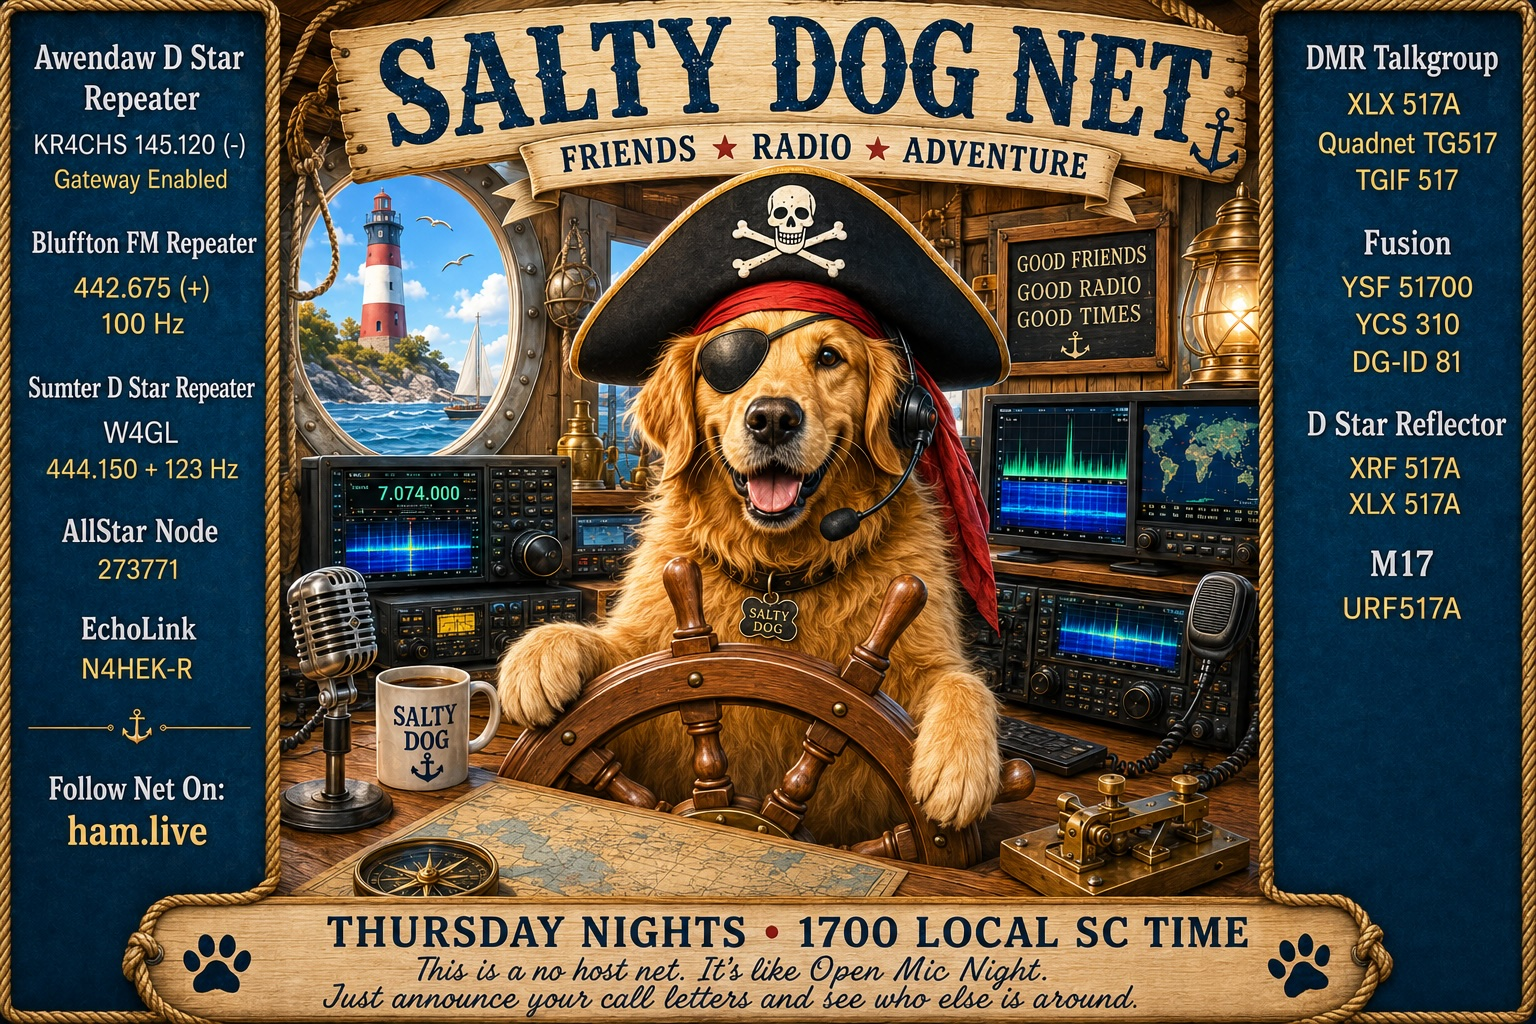
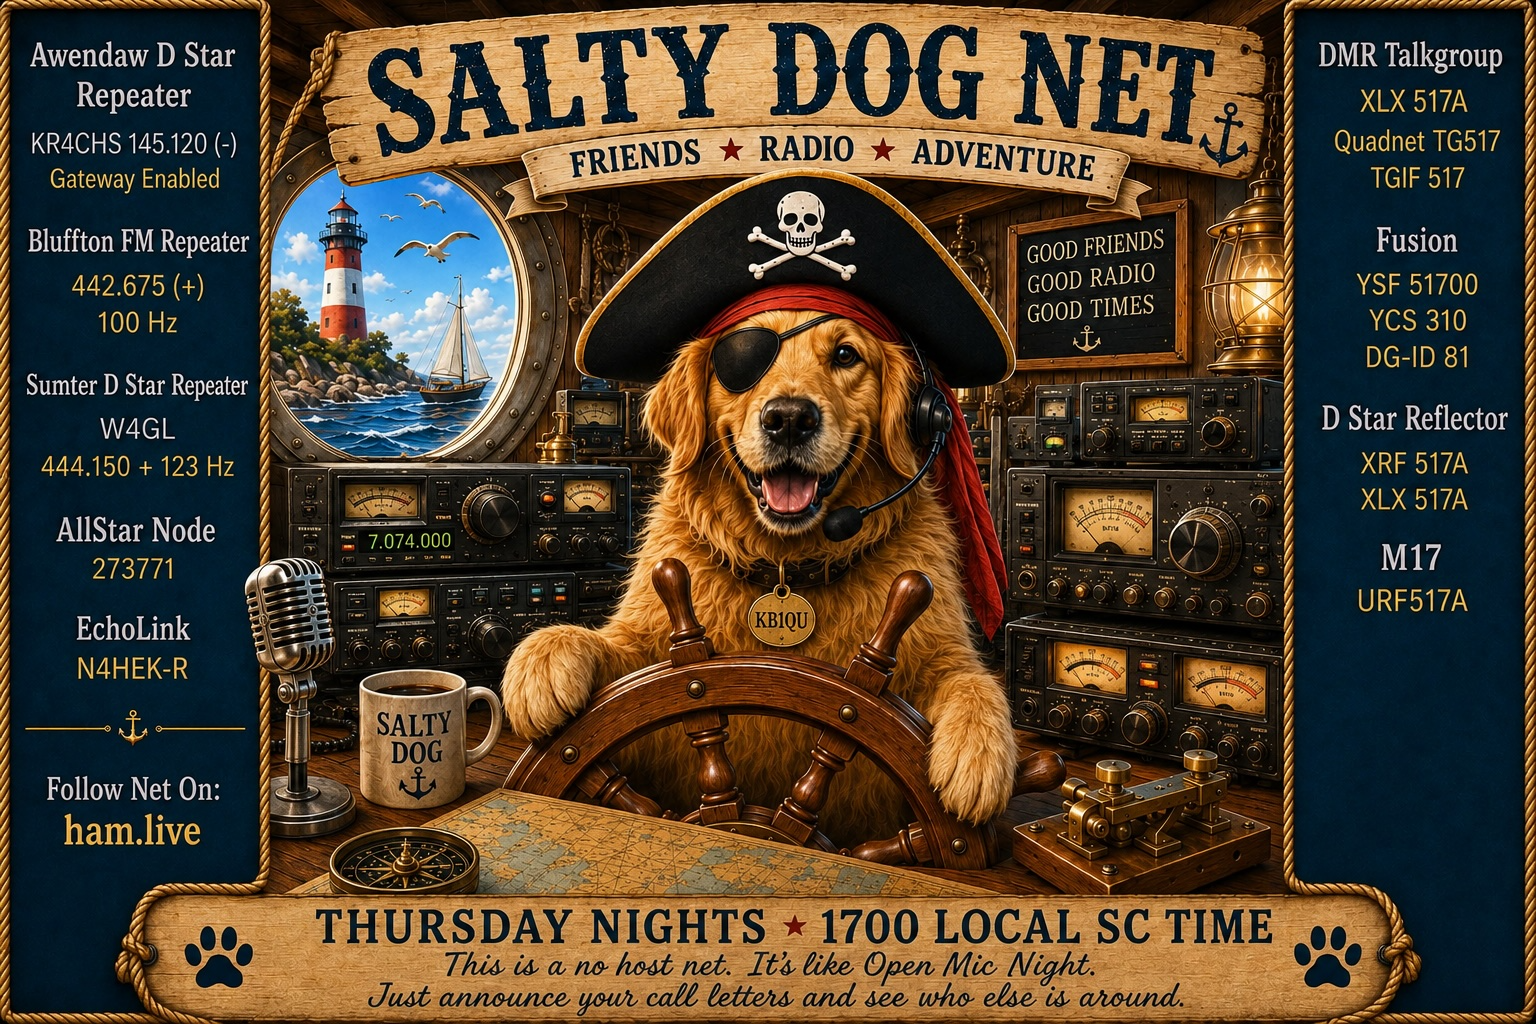
created nets page, many other changes

diff --git a/content/quadnet-and-radiosc.md b/content/quadnet-and-radiosc.md
@@ -1,0 +1,49 @@
+---
+date: '2026-05-14T08:29:47-04:00'
+draft: false
+title: "Quadnet Digital Services and RadioSC"
+tags: ["M17", "DMR", "YSF", "D-STAR"]
+categories: ["Multimode", "Connect"]
+---
+
+# Quadnet
+
+Quadnet sevices are an indispensable part of RadioSC. Our DMR Talk Group (TG) 517 and two of the methods that connect via Yaseu System Fusion reside on [Quadnet](https://openquad.net) servers.  Quadnet facilitates our multimode system by maintaining a full-time link to our URF517 Reflector, a link to the TGIF 517 Talkgroup, and coordination with the other [DMR Unificaton Project](https://dmrup.org) Networks so that our RadioSC network is available on servers worldwide.
+
+The connections shown below expand the detail than the simple list of connections in the [Connecting to RadioSC post](posts/how-to-connect-to-radiosc.md) but there are not intended to be exhaustive.
+
+- ***If assistance is needed for connecting to RadioSC please contact us on our [Discord Server](https://discord.gg/aujUBDebb) where we can provide individualized assistance.***
+
+## Connecting to RadioSC via DMR
+
+There are at least four ways to connect to RadioSC via a DMR radio with a hotspot.
+
+1. TG 517 via the [Quadnet Rysen server](https://quadnet.ddns.net/dashboard/index.php). 
+2. TG 517 via the [Quadnet IPSC2 server](https://dmr.openquad.net/).
+3. TG 517 via TGIF.
+4. Via XLX Master connect to XLX517A. 
+
+## Connecting to RadioSC via Yaesu System Fusion (YSF) with a YSF radio and a hotspot
+
+1. YSF31001 - US - C4FM - QUADNT - YCS310, DG-ID 81 on the [YCS310 Quadnet Server](https://ycs.openquad.net/).
+2. FCS31081 also on the [YCS310 Quadnet Server](https://ycs.openquad.net/).
+3. YSF51700 Reflector - this method connects directly to the XLX517A.
+
+## Connecting to RadioSC via a D-STAR radio and a hotspot
+
+- D-STAR DCS517A or XRF517A - Be sure to set your radio to "Use Reflector" with a Dup of + or - and an offset of "0."
+
+## D-STAR RF Repeaters
+
+We currently have two D-STAR repeaters in South Carolina capable of linking to our RadioSC Reflector and at least one more on the way.
+
+1. KR5CHS, 145.120 (-), located in Awendaw, SC is fulltime linked to DCS517.  
+2. [W4GL](https://www.sumterhamradio.net/), 444.150+ PL123.0 D-Star/FM, located in Sumter, SC is linked to RadioSC for Nets.  Capable of linking to reflectors by operators.
+3. W4IR - Hilton Head Island, SC - Installation in progress.
+4. Other groups are welcome to join.  Please contact us via [Discord](https://discord.gg/aujUBDebb) 
+
+## Connecting to RadioSC via a M17 radio and a hotspot, et al
+
+1. URF517A via a M17 radio and hotspot (multiple options).
+2. URF517A with DroidStar via an Android or iPhone.
+3. [mvoice](https://github.com/n7tae/mvoice) via a Linux computer running Debian, Ubuntu, or Raspbian (PiStar devices). Requires a USB headphone with mic.

diff --git a/content/posts/how-to-connect-to-radiosc.md b/content/posts/how-to-connect-to-radiosc.md
@@ -1,0 +1,36 @@
+---
+date: '2026-05-13T21:33:19-04:00'
+draft: false
+title: 'Connecting to RadioSC'
+tags: ["connect", "multimode", "digital"]
+categories: ["Reflector"]
+cover:
+  image: images/dstar-repeater.png
+  alt: D-STAR Repeater
+  caption: D-STAR Repeater at Awendaw, SC
+---
+
+There are multiple ways to connect to the RadioSC system including D-STAR and FM Repeaters, Echolink, Allstar, and many of the Amateur Radio digital modes including Yaesu System Fusion, D-STAR, DMR, and M17 via hotspots and other Internet-based means. 
+
+Read the Quadnet post and join us on our [Discord Server](https://discord.gg/aujUBDebb) to learn more.
+
+### Connect via Repeaters
+
+- KR4CHS, Awendaw, SC D-STAR 145.120 (-)
+- W4IAR, Hilton Head Island/Bluffton Analog Repeater 442.675 (+), 100 Hz (linked for Nets)
+- W4GL, Sumter, SC 444.150+ PL123.0 D-Star/FM, (linked for Nets)
+ 
+### Connect with digital modes:
+ 
+- D-STAR DCS517A or XRF517A
+- M17 URF517A
+- DMR XLX517A or Quadnet TG 517 or TGIF TG 517
+- YSF31001 - US - C4FM - QUADNT - YCS310, DG-ID 81 or FCS31081 - nn or YSF51700
+
+### Connect with Allstar and Echolink
+
+- Allstar 273771
+- Echolink N4HEK-R
+
+For more detail on connecting see [Quadnet Digital Services and RadioSC](/quadnet-and-radiosc/).
+

diff --git a/content/nets/lunch-net.md b/content/nets/lunch-net.md
@@ -1,0 +1,15 @@
+---
+date: '2026-05-14T08:53:49-04:00'
+draft: false
+title: "Propagation Report & Lunch Net"
+tags: ["multimode"]
+#cover:
+#  image: images/wed-lunch-net.png
+#  alt: image with new post
+#  caption: Salty Dog Net
+categories: ["Nets"]
+---
+
+Propagation Report & Lunch Net Checkin: Every Wednesday at 9:30 AM Eastern (no logging).
+
+Join us for a quick checkin!

diff --git a/content/nets/digital-dog-net.md b/content/nets/digital-dog-net.md
@@ -1,0 +1,13 @@
+---
+date: '2026-05-14T09:00:39-04:00'
+draft: false
+title: "Digital Dog Net"
+tags: ["multimode"]
+cover:
+  image: images/digital-dog-net.jpeg
+  alt: image with new post
+  caption: Salty Dog Net
+categories: ["Nets"]
+---
+
+The Digital Dog Net occurs every Monday at 5pm Eastern.  Logging is va [Ham.Live](https://ham.live). This is a directed Net.  We rotate about six Net Contollers.  Join us, it's a fun time to converse and try out your digital modes!

diff --git a/content/nets/salty-dog-net.md b/content/nets/salty-dog-net.md
@@ -1,0 +1,12 @@
+---
+date: '2026-05-14T08:44:54-04:00'
+draft: false
+ttags: ["multimode"]
+cover:
+  image: images/salty-dog-net.png
+  alt: image with new post
+  caption: Salty Dog Net
+categories: ["Nets"]
+---
+
+The Salty Dog Net occurs on Thursday's at 5pm Eastern.  Though we do log on [Ham.Live](https://ham.live), this is an undirected Net so we just ragchew and collectively manage the net, sharing Net control responsibilities.  Join us, it's a fun time to converse and try out your digital modes!

diff --git a/content/_index.md b/content/_index.md
@@ -1,5 +1,5 @@
 ---
-title: 'Another Try'
+title: 'Home Page'
 date: '2026-05-03T22:12:23-04:00'
 draft: false
 ---

diff --git a/content/about.md b/content/about.md
@@ -2,7 +2,7 @@
 date: '2026-05-07T11:20:55-04:00'
 draft: false
 title: 'About'
-tags: ["operating", "multimode", "digital"]
+tags: ["digital"]
 categories: ["Operating", "Multimode", "URF517"]
 ---
 

diff --git a/content/operating.md b/content/operating.md
@@ -2,7 +2,7 @@
 date: '2026-05-07T22:04:18-04:00'
 draft: false
 title: 'Multimode Operating Practice'
-tags: ["operating", "multimode", "digital"]
+tags: ["digital"]
 categories: ["Operating", "Multimode"]
 ---
 